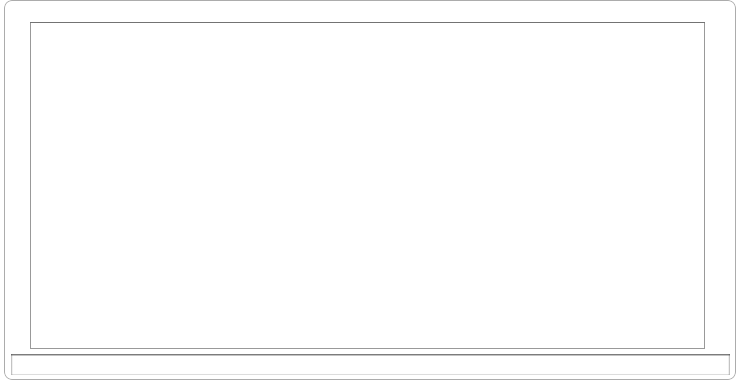
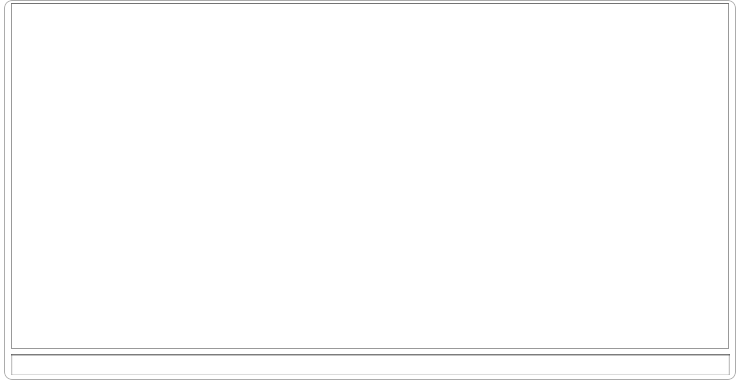
make output text area background transparent

diff --git a/wsh.dcproj/project/widget.wdgt/main.js b/wsh.dcproj/project/widget.wdgt/main.js
@@ -120,7 +120,7 @@ function myKeypressHandler(event)
 
         // Do something with the input data. Want to run a command
         var command = textFieldValue.value
-        widget.system("/bin/sh -c \"" + command +"\"", null);
+        var lastSystemCall = widget.system("/bin/sh -c \"" + command +"\"", null);
         
         //Let's display output
         var textAreaToChange = document.getElementById("outputBox");

diff --git a/wsh.dcproj/project/widget.wdgt/main.css b/wsh.dcproj/project/widget.wdgt/main.css
@@ -95,8 +95,9 @@ body {
     right: auto;
     bottom: auto;
     margin-top: 0px;
-    top: 21px;
-    left: 25px;
-    height: 325px;
-    width: 673px;
+    background-color: rgba(255, 255, 255, 0);
+    height: 344px;
+    top: 2px;
+    left: 6px;
+    width: 716px;
 }
